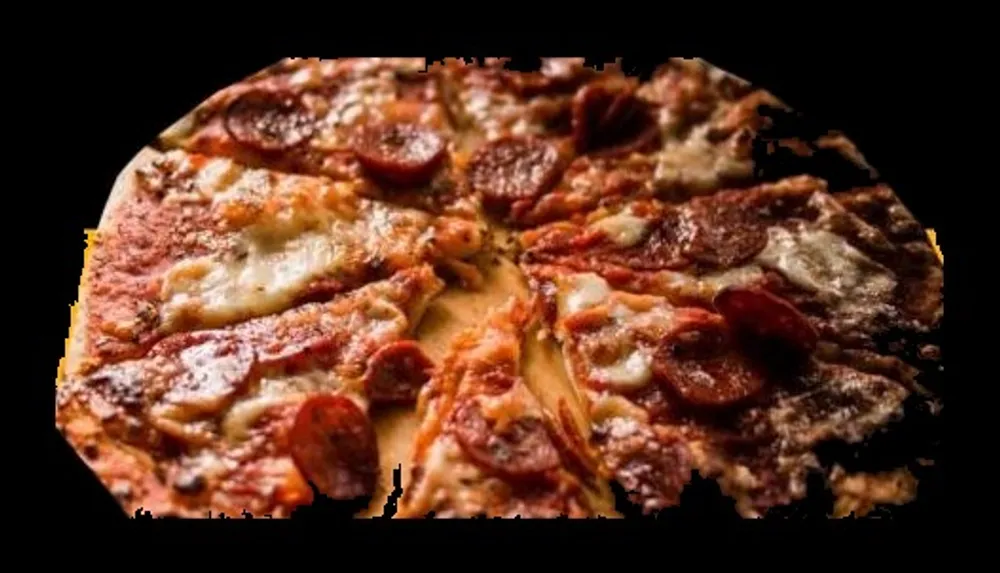
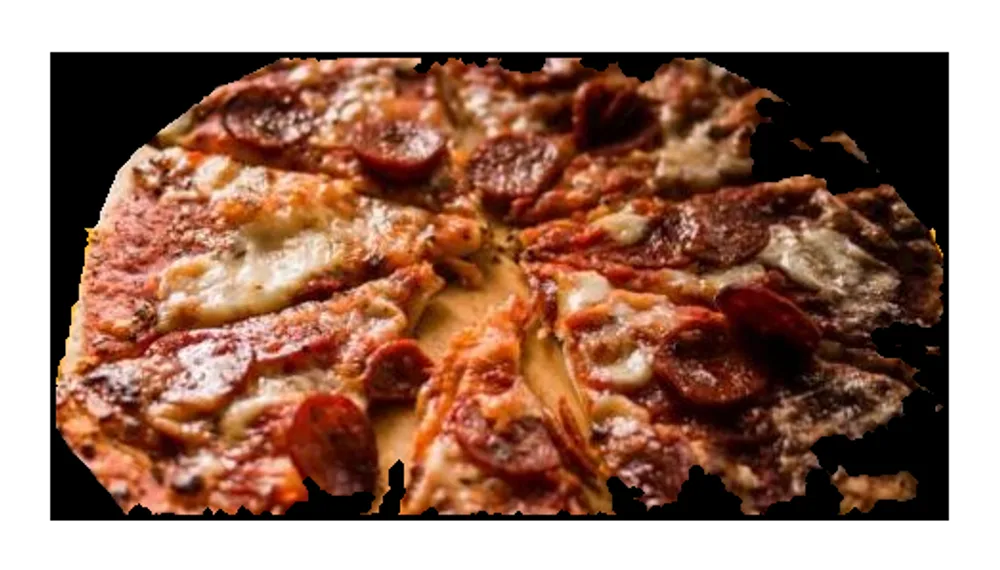
Normalize drink image scale and add hero photo to İçeceklerimiz
All 6 drink cans are now cropped/scaled to a consistent fill ratio on
a uniform square canvas, fixing the mismatch where 7up appeared much
larger/closer than the others in the grid. Re-centered 7up precisely
on the can body itself (measured via widest-row detection) instead of
the full splash bounding box, which was skewing it off-center.
Converted drink assets to webp in the process. Added a real
colorful-drinks macro photo (CC0) as the İçeceklerimiz category hero,
kept on its original white background since automatic black
background removal destroyed the drinks (ice cubes matched the
background too closely). Also fixed black-fill leaks on the Sucuklu
pizza photo with a stricter threshold.

diff --git a/src/data/menu.js b/src/data/menu.js
@@ -12,12 +12,12 @@ export const PIZZA_VARIETIES = [
 ]
 
 export const DRINKS = [
-  { slug: 'pepsi', brandColor: '#0a4da2', image: '/images/drinks/drink-pepsi.jpg' },
-  { slug: 'pepsi-max', brandColor: '#2b2b2b', image: '/images/drinks/drink-pepsi-max.jpg' },
-  { slug: '7up', brandColor: '#2fa63f', image: '/images/drinks/drink-7up.jpg' },
-  { slug: 'yedigun', brandColor: '#f2c400', image: '/images/drinks/drink-yedigun.jpg' },
-  { slug: 'lipton-ice-tea', brandColor: '#e8871e', image: '/images/drinks/drink-lipton.jpg' },
-  { slug: 'fruko-soda', brandColor: '#1c8a4b', image: '/images/drinks/drink-fruko.jpg' },
+  { slug: 'pepsi', brandColor: '#0a4da2', image: '/images/drinks/drink-pepsi.webp' },
+  { slug: 'pepsi-max', brandColor: '#2b2b2b', image: '/images/drinks/drink-pepsi-max.webp' },
+  { slug: '7up', brandColor: '#2fa63f', image: '/images/drinks/drink-7up.webp' },
+  { slug: 'yedigun', brandColor: '#f2c400', image: '/images/drinks/drink-yedigun.webp' },
+  { slug: 'lipton-ice-tea', brandColor: '#e8871e', image: '/images/drinks/drink-lipton.webp' },
+  { slug: 'fruko-soda', brandColor: '#1c8a4b', image: '/images/drinks/drink-fruko.webp' },
 ]
 
 export const CATEGORIES = [
@@ -55,7 +55,7 @@ export const CATEGORIES = [
   {
     slug: 'icecekler',
     kind: 'drinks',
-    heroImage: null,
+    heroImage: '/images/drinks-hero.webp',
     drinks: DRINKS,
   },
 ]

diff --git a/src/pages/DrinksPage.jsx b/src/pages/DrinksPage.jsx
@@ -4,7 +4,7 @@ import BackButton from '../components/BackButton'
 import DrinkCard from '../components/DrinkCard'
 
 export default function DrinksPage({ category }) {
-  const { title, tagline, description, drinks } = category
+  const { title, tagline, description, drinks, heroImage } = category
 
   return (
     <div className="mx-auto flex min-h-full max-w-md flex-col">
@@ -12,6 +12,14 @@ export default function DrinksPage({ category }) {
 
       <main className="flex-1 px-4 py-6">
         <BackButton />
+
+        {heroImage && (
+          <img
+            src={heroImage}
+            alt=""
+            className="mb-6 h-40 w-full rounded-2xl object-cover"
+          />
+        )}
 
         <div className="mb-6 text-center">
           <h1 className="font-display text-2xl font-extrabold text-cream">{title}</h1>
